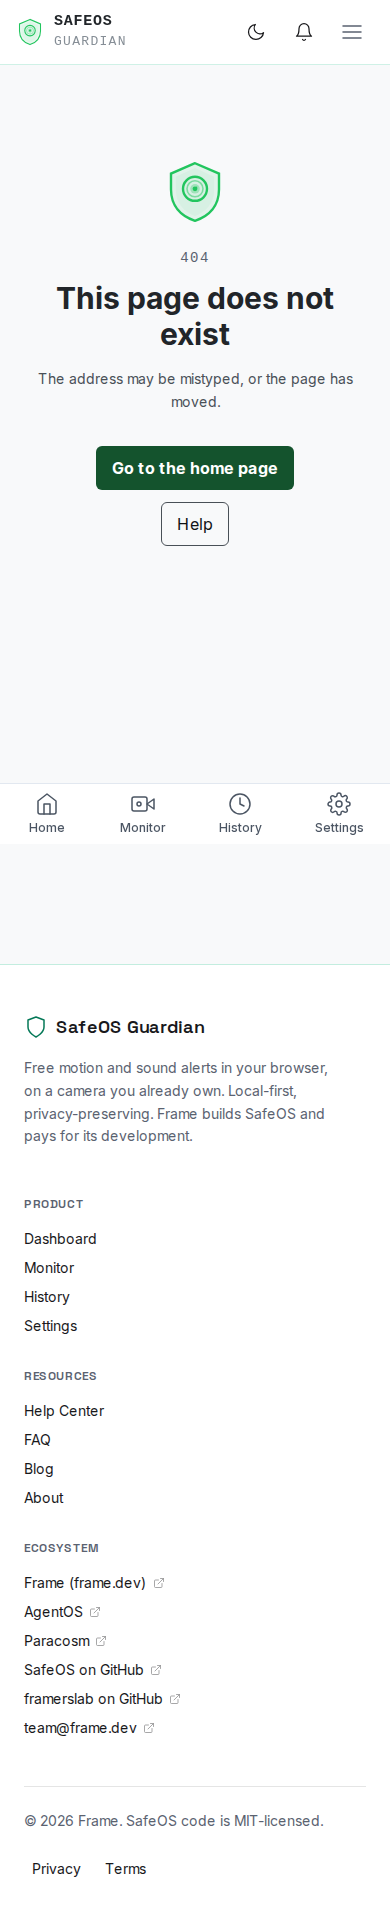
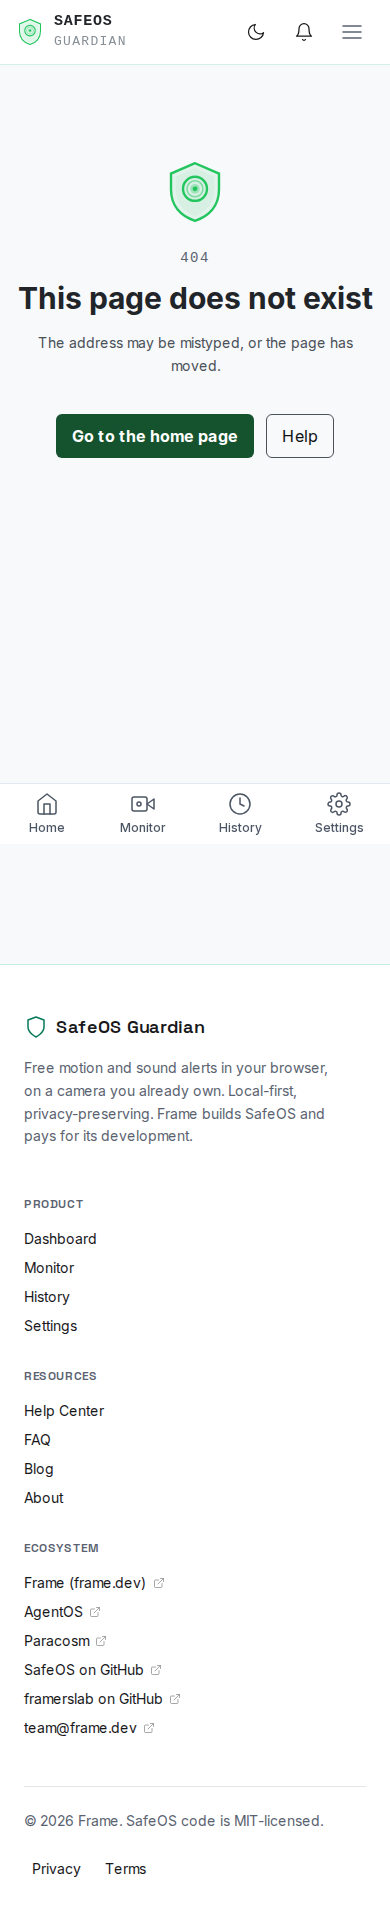
Pictures for pull request 52: the Not found page's after pictures from run 44905656881, its two keys side by side in one row at 390 and 1280 pixels

Changed region(s): [[0.0615, 0.1232, 0.9538, 0.2773]]

diff --git a/docs/pictures/pr-52/README.md b/docs/pictures/pr-52/README.md
@@ -68,3 +68,10 @@ read the same count on the same day, and every walk passed.
 on commit af597dc, this pull request before that change. The start key's fill
 is caught part way from the old look's green to the new one's while its label
 is already the new look's colour; the walk failed on it.
+
+Four files of `after/` are from a later run,
+[run 44905656881](https://github.com/framerslab/safeos/actions/runs/44905656881)
+on commit d17bf37, which sets the Not found page's two keys side by side in
+one row at every width: `404-html-390-<look>.png` and
+`404-html-1280-<look>.png`. That run read the same count on the same day, and
+every walk passed.
